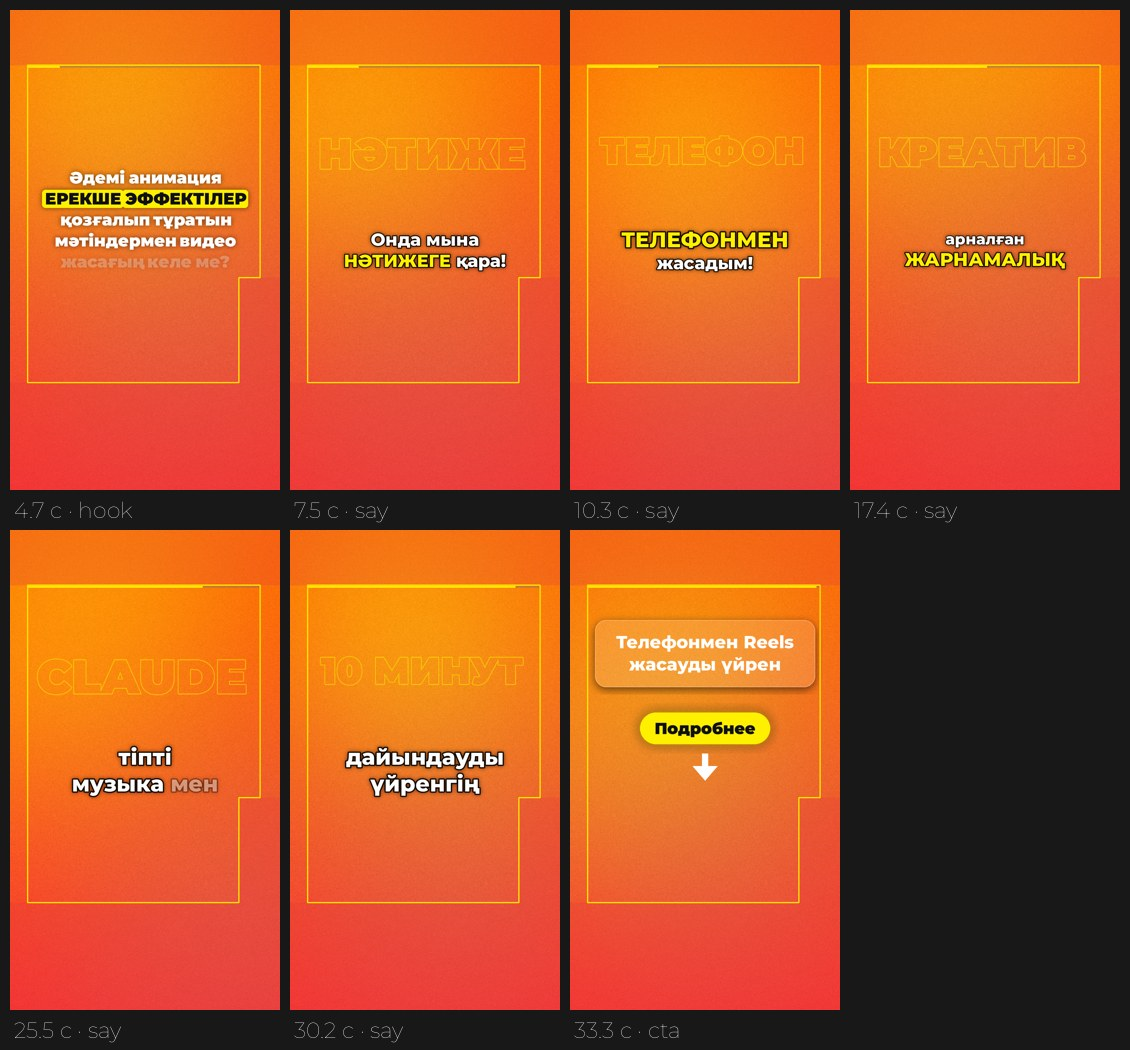
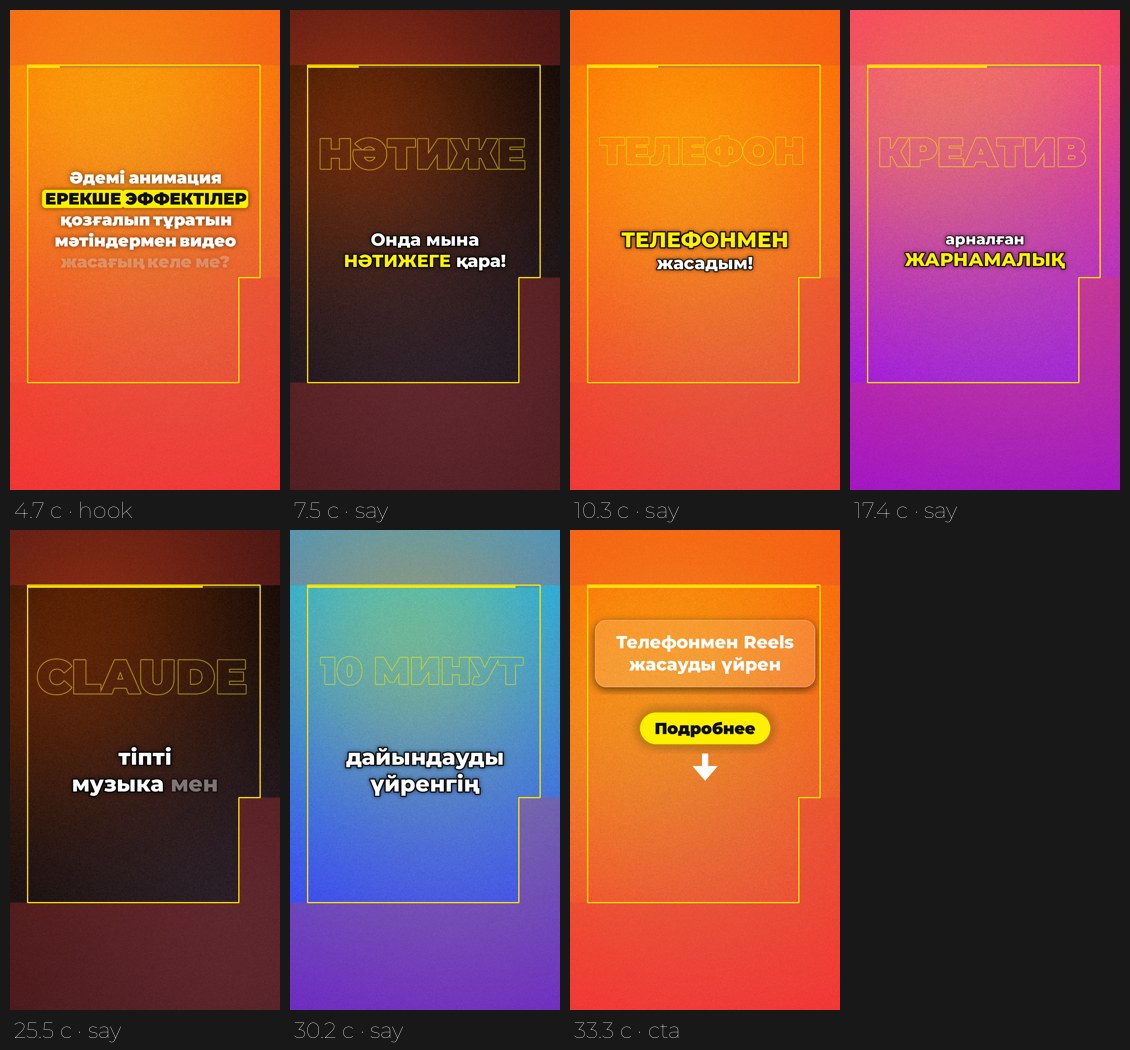
Раскадровка v2: әр сахна әртүрлі түсте
Claude-Session: https://claude.ai/code/session_017A9pfq9E4kKRfCyDLh8oPk

diff --git a/.claude/skills/matin-video/scripts/matin.py b/.claude/skills/matin-video/scripts/matin.py
@@ -558,6 +558,16 @@ class Renderer:
         self.sw, self.sh = 270, 480
         yy = np.linspace(0, 1, self.sh)[:, None, None]
         self.grad = (self.bg1 * (1 - yy) + self.bg2 * yy) * np.ones((1, self.sw, 1), np.float32)
+        # сахнаға жеке фон: {"bg": ["#000000", "#1A1A1A"]} — түстер ауысып тұрады
+        self.sgrad = []
+        for sc in plan["scenes"]:
+            bg = sc.get("bg")
+            if bg:
+                b1 = np.array(M.hex2rgb(bg[0])[::-1], np.float32)
+                b2 = np.array(M.hex2rgb(bg[-1])[::-1], np.float32)
+                self.sgrad.append((b1 * (1 - yy) + b2 * yy) * np.ones((1, self.sw, 1), np.float32))
+            else:
+                self.sgrad.append(None)
         gy, gx = np.mgrid[0:self.sh, 0:self.sw].astype(np.float32)
         self.gx, self.gy = gx, gy
         rng = np.random.default_rng(3)
@@ -567,8 +577,18 @@ class Renderer:
     def background(self, t):
         import cv2
         np = self.np
-        img = self.grad.copy()
+        img = self.grad
+        k = 0
+        for i, s in enumerate(self.scenes):
+            if t >= s.tl["s"] - 0.15:
+                k = i
+        if self.sgrad and self.sgrad[k] is not None:
+            img = self.sgrad[k]
+        img = img.copy()
         acc = np.array(self.acc[::-1], np.float32)
+        glow = self.scenes[k].sc.get("glow") if self.scenes else None
+        if glow:
+            acc = np.array(M.hex2rgb(glow)[::-1], np.float32)
         for k, (ax, ay, sp, r, a) in enumerate(((0.32, 0.30, 0.11, 120, 0.30), (0.70, 0.72, 0.08, 150, 0.22),
                                                 (0.55, 0.12, 0.05, 90, 0.14))):
             cx = self.sw * (ax + 0.18 * np.sin(t * sp * 6.28 + k))
